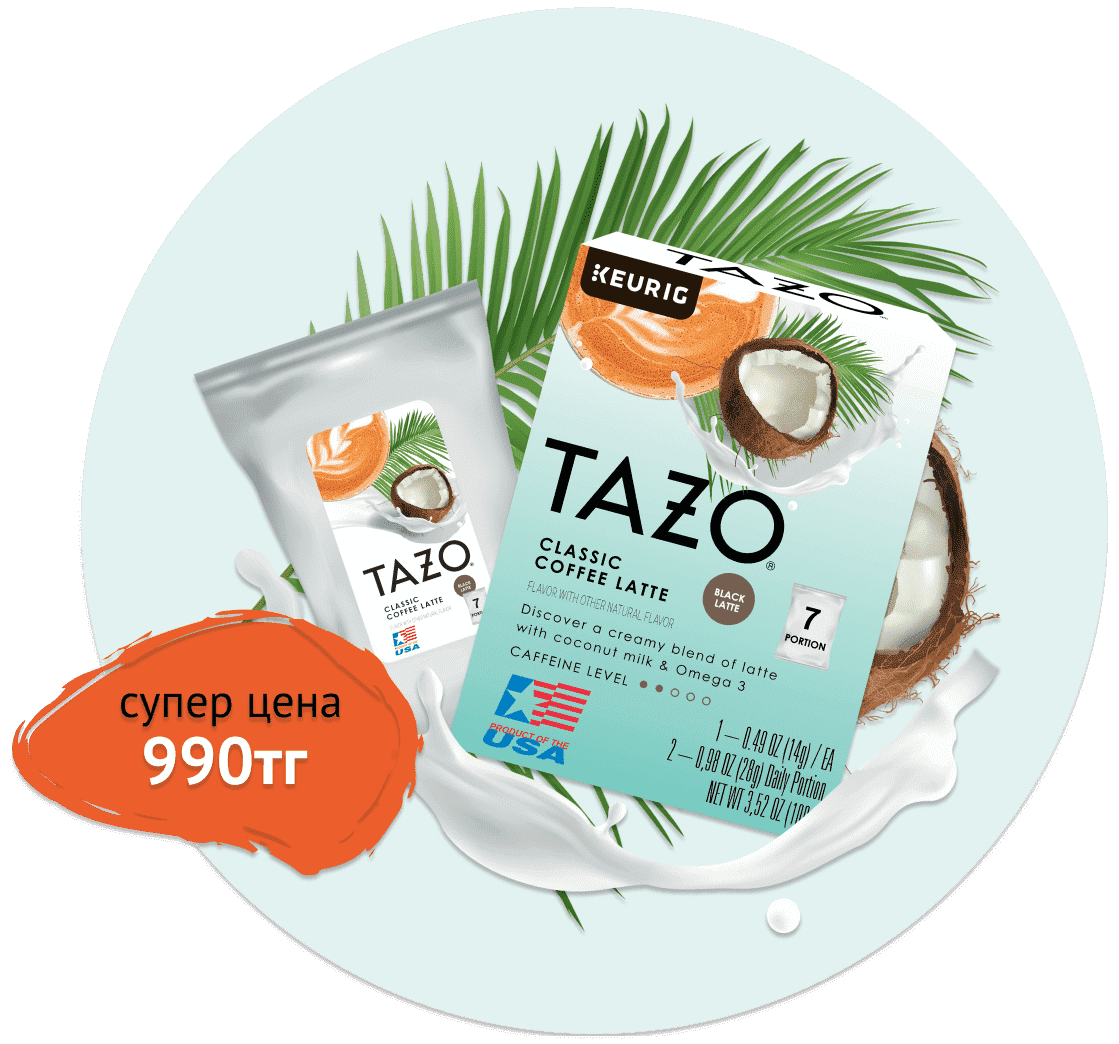
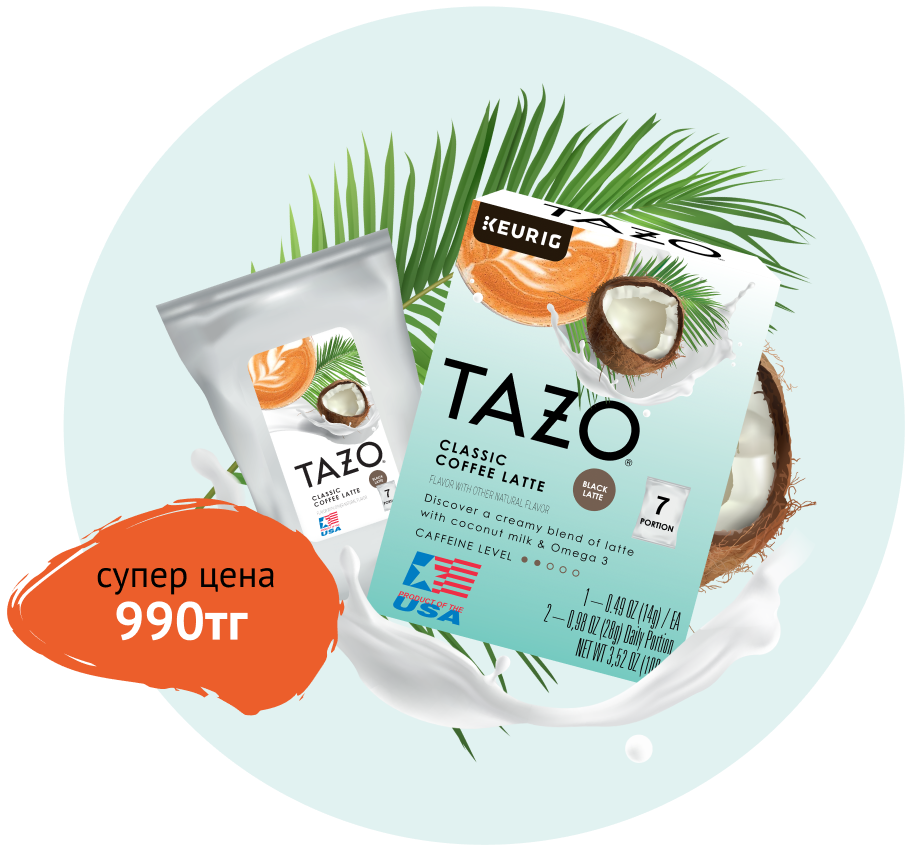
Add files via upload

diff --git a/index.html b/index.html
@@ -90,7 +90,7 @@
         <div class="container">
             <div class="b4_wrapper">
                 <div class="b4_start">
-                    <img src="images/dest/b4pic.png" alt="">
+                    <img src="images/dest/b6img.png" alt="">
                     <div class="b4_btn">
                         <a href="#footer" class="btn">order</a>
                     </div>
